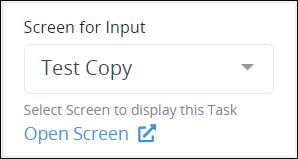
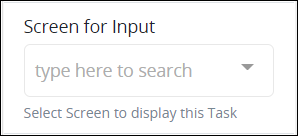
GitBook: [processmaker] 4 pages and 2 assets modified

diff --git a/designing-processes/process-design/model-your-process/process-modeling-element-descriptions.md b/designing-processes/process-design/model-your-process/process-modeling-element-descriptions.md
@@ -38,6 +38,7 @@ Use event-type elements to represent an event, milestone, or delay in the Proces
 * [Intermediate Message Throw Event](process-modeling-element-descriptions.md#intermediate-message-throw-event)
 * [End Event](process-modeling-element-descriptions.md#end-event)
 * [Message End Event](process-modeling-element-descriptions.md#message-end-event)
+* [Error End Event](process-modeling-element-descriptions.md#error-end-event)
 
 ### Start Event
 
@@ -71,7 +72,7 @@ See [Add and Configure Start Timer Event Elements](add-and-configure-start-timer
 
 ### Message Start Event
 
-A Message Start Event element starts a [Request](../../../using-processmaker/requests/what-is-a-request.md) for a Process when it triggers from a message. The Message Start Event element listens for a message from a specified source. The purpose of the message transfer is to convey data from one Pool element's Request data to another Pool element within the same Process model, thereby using the sent Request data to start a Request for the receiving Pool element; each Pool element represents its own Request with its own distinct Request data.
+A Message Start Event element starts a [Request](../../../using-processmaker/requests/what-is-a-request.md) for a Process when it triggers from a message. The Message Start Event element listens for a message from a specified source. The purpose of the message transfer is to send data from one Pool element's Request data to another Pool element within the same Process model, thereby using the sent Request data to start a Request for the receiving Pool element; each Pool element represents its own Request with its own distinct Request data.
 
 A [Message Flow](process-modeling-element-descriptions.md#message-flow) element can connect from the element sending the message to the Message Start Event element. A Process model can have multiple Message Start Event elements.
 
@@ -83,10 +84,10 @@ This message may originate from any of the following:
 
 A Message Start Event element functions as follows during a Request:
 
-* The Message Start Event element listens for a message based on that message's name. The message name is a placeholder for the message.
-* The Intermediate Message Throw Event element or Message End Event element triggers.
-* That triggering element sends its message containing Request data to the Message Start Event element.
-* If the message name matches that for which the Message Start Event element is listening, then that element triggers. The Request starts.
+1. The Message Start Event element listens for a message based on that message's name. The message name is a placeholder for the message.
+2. The Intermediate Message Throw Event element or Message End Event element triggers.
+3. That triggering element sends its message containing Request data to the Message Start Event element.
+4. If the message name matches that for which the Message Start Event element is listening, then that element triggers; the Request starts. Otherwise, the message is ignored.
 
 Below is a Message Start Event element when it has been placed into a Process model.
 
@@ -110,7 +111,7 @@ See [Add and Configure Intermediate Timer Event Elements](add-and-configure-inte
 
 ### Intermediate Message Catch Event
 
-An Intermediate Message Catch Event element delays a [Request](../../../using-processmaker/requests/what-is-a-request.md) until that element receives a message. The purpose of the message transfer is to convey data between Requests running from the same Process model since each Pool element represents its own Request with its own distinct Request data.
+An Intermediate Message Catch Event element delays a [Request](../../../using-processmaker/requests/what-is-a-request.md) until that element receives a message. The purpose of the message transfer is to send data between Requests running from the same Process model since each Pool element represents its own Request with its own distinct Request data.
 
 This message may originate from any of the following:
 
@@ -122,10 +123,10 @@ A [Message Flow](process-modeling-element-descriptions.md#message-flow) element 
 
 An Intermediate Message Catch Event element functions as follows during a Request:
 
-* Workflow in the Request using the Intermediate Message Catch Event element pauses when it reaches this event. The Intermediate Message Catch Event element listens for a message based on that message's name. The message name is a placeholder for the message.
-* The Intermediate Message Throw Event element or Message End Event element triggers.
-* That triggering element sends its message containing Request data to the Intermediate Message Catch Event element.
-* If the message name matches that for which the Intermediate Message Catch Event element is listening, then that element triggers. Workflow resumes in that Request.
+1. Workflow in the Request using the Intermediate Message Catch Event element pauses when it reaches this event. The Intermediate Message Catch Event element listens for a message based on that message's name. The message name is a placeholder for the message.
+2. The Intermediate Message Throw Event element or Message End Event element triggers.
+3. That triggering element sends its message containing Request data to the Intermediate Message Catch Event element.
+4. If the message name matches that for which the Intermediate Message Catch Event element is listening, then that element triggers; workflow resumes in that Request. Otherwise, the message is ignored.
 
 Consider the following example how the Intermediate Message Catch Event element functions. This example uses the Intermediate Message Throw Event element  in an overly simple purchase request and order fulfillment Process model.
 
@@ -135,10 +136,10 @@ The Intermediate Message Catch Event element \(labeled "Catch from Order"\) is i
 
 After the "Purchase Fulfillment" Request starts, the following occurs:
 
-* Workflow delays after the "Preparation" Task element.
-* When the Intermediate Message Throw Event element triggers from the "Purchase Order" Request \(labeled "Throw to Fulfillment"\), it sends its message to the Intermediate Message Catch Event element in the "Purchase Fulfillment" Request. Workflow continues in the "Purchase Order" Request to the End Event element.
-* In the "Purchase Fulfillment" Request, the Intermediate Message Catch Event element triggers and receives the Intermediate Message Throw Event element's message.
-* Workflow resumes in the "Purchase Fulfillment" Request.
+1. Workflow delays after the "Preparation" Task element.
+2. When the Intermediate Message Throw Event element triggers from the "Purchase Order" Request \(labeled "Throw to Fulfillment"\), it sends its message to the Intermediate Message Catch Event element in the "Purchase Fulfillment" Request. Workflow continues in the "Purchase Order" Request to the End Event element.
+3. In the "Purchase Fulfillment" Request, the Intermediate Message Catch Event element triggers and receives the Intermediate Message Throw Event element's message.
+4. Workflow resumes in the "Purchase Fulfillment" Request.
 
 Below is an Intermediate Message Catch Event element when it has been placed into a Process model.
 
@@ -150,15 +151,15 @@ See [Add and Configure Intermediate Timer Event Elements](add-and-configure-inte
 
 ### Intermediate Message Throw Event
 
-An Intermediate Message Throw Event element sends a message to a [Message Start Event](process-modeling-element-descriptions.md#message-start-event) or an [Intermediate Message Catch Event](process-modeling-element-descriptions.md#intermediate-message-throw-event) element. The purpose of the message transfer is to convey data between Requests running from the same Process model since each [Pool](process-modeling-element-descriptions.md#pool) element represents its own Request with its own distinct Request data.
+An Intermediate Message Throw Event element sends a message to a [Message Start Event](process-modeling-element-descriptions.md#message-start-event) or an [Intermediate Message Catch Event](process-modeling-element-descriptions.md#intermediate-message-throw-event) element. The purpose of the message transfer is to send data between Requests running from the same Process model since each [Pool](process-modeling-element-descriptions.md#pool) element represents its own Request with its own distinct Request data.
 
 A [Message Flow](process-modeling-element-descriptions.md#message-flow) element can connect from the Intermediate Message Throw Event element to the element listening for its message.
 
 An Intermediate Message Throw Event element functions as follows during a Request:
 
-* The Intermediate Message Throw Event element triggers.
-* The Intermediate Message Throw Event element sends its message. The message has a name which is a placeholder for the Request data it sends to the catching element.
-* If the message name matches that for which the catching element is listening, then that element triggers.
+1. The Intermediate Message Throw Event element triggers.
+2. The Intermediate Message Throw Event element sends its message. The message has a name which is a placeholder for the Request data it sends to the catching element.
+3. If the message name matches that for which the catching element is listening, then that element triggers. Otherwise, the message is ignored.
 
 {% hint style="info" %}
 See the [Intermediate Message Catch Event](process-modeling-element-descriptions.md#intermediate-message-catch-event) element description for a simple example how an Intermediate Message Throw Event element works.
@@ -186,7 +187,7 @@ See [Add and Configure End Event Elements](add-and-configure-end-event-elements.
 
 ### Message End Event
 
-A Message End Event element sends a message to a [Message Start Event](process-modeling-element-descriptions.md#message-start-event) or an [Intermediate Message Catch Event](process-modeling-element-descriptions.md#intermediate-message-throw-event) element when the Request using the Message End Event element completes. The purpose of the message transfer is to convey data between Requests running from the same Process model since each [Pool](process-modeling-element-descriptions.md#pool) element represents its own Request with its own distinct Request data.
+A Message End Event element sends a message to a [Message Start Event](process-modeling-element-descriptions.md#message-start-event) or an [Intermediate Message Catch Event](process-modeling-element-descriptions.md#intermediate-message-throw-event) element when the Request using the Message End Event element completes. The purpose of the message transfer is to send data between Requests running from the same Process model since each [Pool](process-modeling-element-descriptions.md#pool) element represents its own Request with its own distinct Request data.
 
 A [Message Flow](process-modeling-element-descriptions.md#message-flow) element can connect from the Message End Event element to the element listening for its message.
 
@@ -194,7 +195,7 @@ A Message End Event element functions as follows during a Request:
 
 * The Message End Event element triggers when the Request using it completes.
 * The Message End Event element sends its message. The message has a name which is a placeholder for the Request data it sends to the catching element.
-* If the message name matches that for which the catching element is listening, then that element triggers.
+* If the message name matches that for which the catching element is listening, then that element triggers. Otherwise, the message is ignored.
 
 Below is a Message End Event element when it has been placed into a Process model.
 
@@ -203,6 +204,25 @@ Below is a Message End Event element when it has been placed into a Process mode
 {% hint style="info" %}
 See [Add and Configure Message End Event Elements](add-and-configure-message-end-event-elements.md).
 {% endhint %}
+
+### Error End Event
+
+An Error End Event element sends an error before the Request to which it is used completes. The Error End Event element represents a business error, not a ProcessMaker technical error. A Boundary Error Event element must be associated with a [Task](process-modeling-element-descriptions.md#task) element, [Script Task](process-modeling-element-descriptions.md#script-task) element, and/or [Manual Task](process-modeling-element-descriptions.md#manual-task) element in a separate [Pool](process-modeling-element-descriptions.md#pool) element within the same Process model to receive the error. The purpose of sending the error is to provide an alternate business solution if the initial Request has a business error and to send data between Requests running from the same Process model since each Pool element represents its own Request with its own distinct Request data.
+
+An Error End Event element functions as follows during a Request:
+
+1. The Error End Event element triggers. The Request registers the error before the Request completes.
+2. One of the following occurs:
+   * **A Boundary Error Event element is in a separate Pool element:**
+     1. The Error End Event element sends the error to the Boundary Error Event element. The error has a name which is a placeholder for the Request data it sends to the Boundary Error Event element.
+     2. The status for the Request using the Error End Event element changes from In Progress to Error.
+     3. The Boundary Error Event element triggers from the separate Pool element. Workflow for that Request routes through this element.
+   * **A Boundary Error Event element is not in a separate Pool element:**
+     1. Since there is no Boundary Error Event element to receive the error from the separate Pool element, the error in the Error End Event element is ignored and that Request completes like an [End Event](process-modeling-element-descriptions.md#end-event) element.
+
+Below is an Error End Event element when it has been placed into a Process model.
+
+![Error End Event element](../../../.gitbook/assets/error-end-event-process-modeler-processes.png)
 
 ## Tasks
 

diff --git a/designing-processes/process-design/model-your-process/add-and-configure-manual-task-elements.md b/designing-processes/process-design/model-your-process/add-and-configure-manual-task-elements.md
@@ -106,7 +106,8 @@ Follow these steps to select the ProcessMaker Screen that displays when a Manual
 1. Ensure that the **Hide Menus** button![](../../../.gitbook/assets/hide-menus-button-process-modeler-processes.png)is not enabled. See [Maximize the Process Modeler Canvas View](../navigate-around-your-process-model.md#maximize-the-process-modeler-canvas-view).
 2. Select the Manual Task element from the Process model in which to select the ProcessMaker Screen that displays when that Manual Task element is triggered, thereby providing instructions or information to the Task assignee. Panels to configure this element display.
 3. Expand the **Configuration** panel if it is not presently expanded, and then locate the **Screen for Input** setting. ![](../../../.gitbook/assets/screen-for-input-manual-task-process-modeler-processes.png) 
-4. From the **Screen for Input** drop-down menu, select the ProcessMaker Screen that has been designed to display when that Manual Task element triggers. This drop-down menu displays only Display types to display a message to the Task assignee in the Task summary. Note that another Manual Task element located elsewhere in the Process model may reference a different ProcessMaker Screen to display information for a different Task assignee.
+4. From the **Screen for Input** drop-down menu, select the ProcessMaker Screen that has been designed to display when that Manual Task element triggers. This drop-down menu displays only Display types to display a message to the Task assignee in the Task summary. After a ProcessMaker Screen is selected, the **Open Screen** link displays.
+5. Optionally, click the **Open Screen** link to view and/or edit your selected ProcessMaker Screen. Note that your ProcessMaker user account must have appropriate [Screen category](../../../processmaker-administration/permission-descriptions-for-users-and-groups.md#screens) permissions to view and/or edit the selected Screen.
 
 #### Specify When the Manual Task is Due
 

diff --git a/designing-processes/process-design/model-your-process/add-and-configure-script-task-elements.md b/designing-processes/process-design/model-your-process/add-and-configure-script-task-elements.md
@@ -101,7 +101,8 @@ Follow these steps to select a ProcessMaker Script for a Script Task element:
 
    ![](../../../.gitbook/assets/script-drop-down-script-task-process-modeler-processes.png)
 
-4. From the **Script** drop-down menu, select which ProcessMaker Script that Script Task element references.
+4. From the **Script** drop-down menu, select which ProcessMaker Script that Script Task element references. After a ProcessMaker Script is selected, the **Open Script** link displays.
+5. Optionally, click the **Open Script** link to view and/or edit your selected ProcessMaker Script. Note that your ProcessMaker user account must have appropriate [Script category](../../../processmaker-administration/permission-descriptions-for-users-and-groups.md#scripts) permissions to view and/or edit the selected Script.
 
 {% hint style="warning" %}
 If no ProcessMaker Scripts exist, the **Script** drop-down menu contains no options. Ensure to select and configure a ProcessMaker Script for every Script Task element in the Process model before deploying your Process.

diff --git a/designing-processes/process-design/model-your-process/add-and-configure-task-elements.md b/designing-processes/process-design/model-your-process/add-and-configure-task-elements.md
@@ -119,7 +119,7 @@ Follow these steps to select a ProcessMaker Screen for a Task element:
 
    ![](../../../.gitbook/assets/screen-input-task-process-modeler-processes.png)
 
-4. From the **Screen For Input** drop-down menu, select which ProcessMaker Screen that Task element references. Only Email-type ProcessMaker Screens display from this drop-down menu.
+4. From the **Screen For Input** drop-down menu, select which ProcessMaker Screen that Task element references. Only Email-type ProcessMaker Screens display from this drop-down menu. After a ProcessMaker Screen is selected, the **Open Screen** link displays.
 5. Optionally, click the **Open Screen** link to view and/or edit your selected ProcessMaker Screen. Note that your ProcessMaker user account must have appropriate [Screen category](../../../processmaker-administration/permission-descriptions-for-users-and-groups.md#screens) permissions to view and/or edit the selected Screen.
 
 {% hint style="warning" %}
